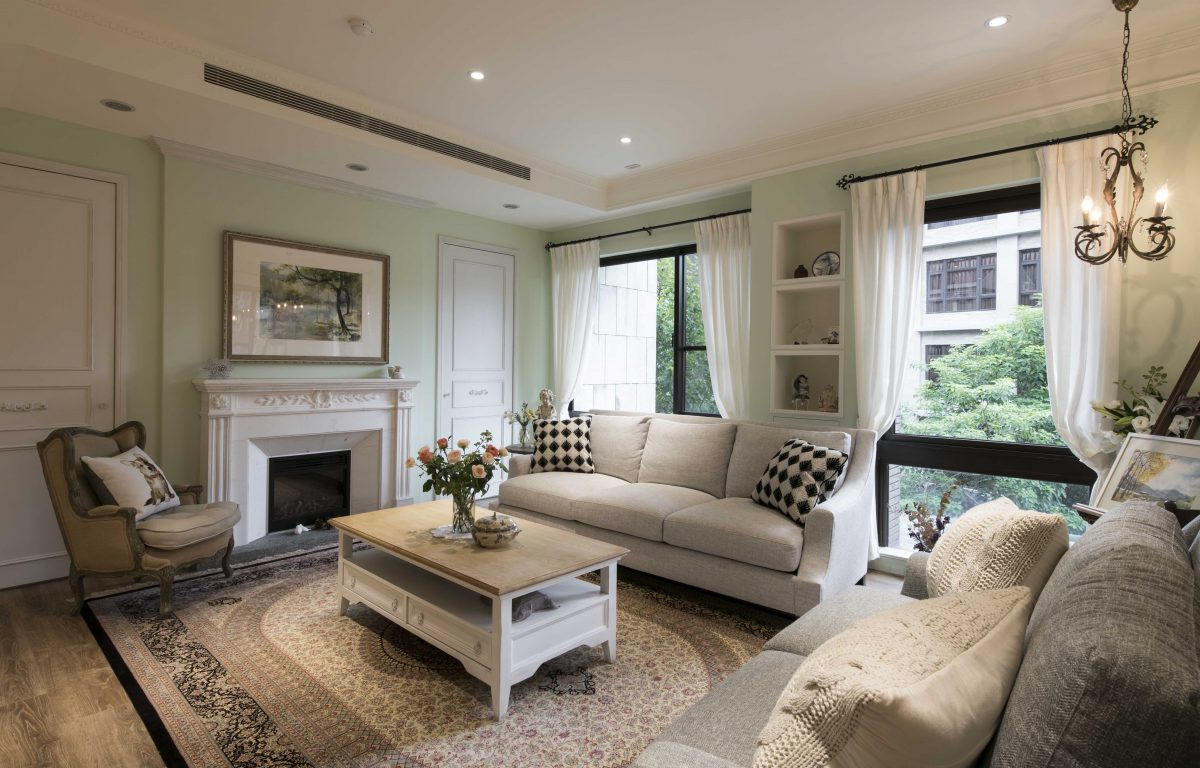
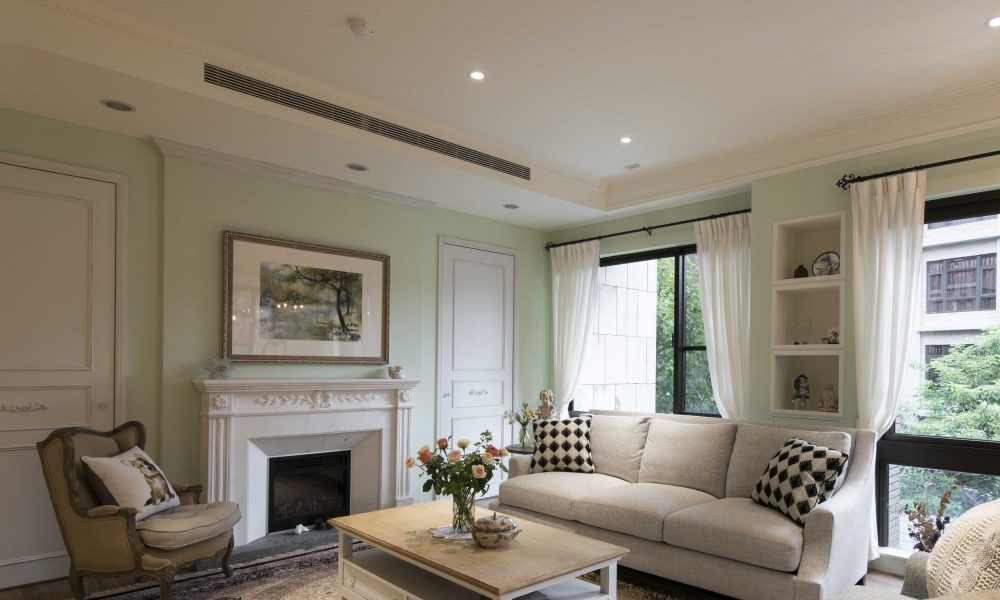
11

diff --git a/landing2.html b/landing2.html
@@ -48,11 +48,14 @@
 								<img src="images/05/07.jpg" alt="" />
 							</span>
 							<header class="major">
-								<h1>Landing</h1>
+								<h1>新古典風緣由</h1>
 							</header>
 							<div class="content">
-								<p>Lorem ipsum dolor sit amet nullam consequat<br />
-								sed veroeros. tempus adipiscing nulla.</p>
+								<p>新古典主義風格是一種建築和藝術的風格，
+									起源於18世紀末至19世紀初的歐洲是特別
+									是在英國和法國。它的出現是作為對巴洛
+									克和洛可可風格的反應，強調理性、秩序
+									和古典的優雅。</p>
 							</div>
 						</div>
 					</section>
@@ -64,9 +67,9 @@
 							<section id="one">
 								<div class="inner">
 									<header class="major">
-										<h2>Sed amet aliquam</h2>
+										<h2>古典建築元素的復興</h2>
 									</header>
-									<p>Nullam et orci eu lorem consequat tincidunt vivamus et sagittis magna sed nunc rhoncus condimentum sem. In efficitur ligula tate urna. Maecenas massa vel lacinia pellentesque lorem ipsum dolor. Nullam et orci eu lorem consequat tincidunt. Vivamus et sagittis libero. Nullam et orci eu lorem consequat tincidunt vivamus et sagittis magna sed nunc rhoncus condimentum sem. In efficitur ligula tate urna.</p>
+									<p>新古典主義尋求復興古希臘和羅馬建築的元素，如柱廊、拱門、穹頂等。這些元素被認為是理性和秩序的象徵，與巴洛克和洛可可風格的多樣化和浮誇形成對比。</p>
 								</div>
 							</section>
 
@@ -79,9 +82,9 @@
 									<div class="content">
 										<div class="inner">
 											<header class="major">
-												<h3>Orci maecenas</h3>
+												<h3>理性和秩序的追求</h3>
 											</header>
-											<p>Nullam et orci eu lorem consequat tincidunt vivamus et sagittis magna sed nunc rhoncus condimentum sem. In efficitur ligula tate urna. Maecenas massa sed magna lacinia magna pellentesque lorem ipsum dolor. Nullam et orci eu lorem consequat tincidunt. Vivamus et sagittis tempus.</p>
+											<p>這一風格反映了啟蒙運動的理念，強調理性思考、科學精神和古典教育的價值。建築和藝術被設計來符合明確的比例和規則，以表現秩序和和諧。</p>
 											<ul class="actions">
 												<li><a href="generic2.html" class="button">Learn more</a></li>
 											</ul>
@@ -95,9 +98,9 @@
 									<div class="content">
 										<div class="inner">
 											<header class="major">
-												<h3>Rhoncus magna</h3>
+												<h3>文藝復興的精神</h3>
 											</header>
-											<p>Nullam et orci eu lorem consequat tincidunt vivamus et sagittis magna sed nunc rhoncus condimentum sem. In efficitur ligula tate urna. Maecenas massa sed magna lacinia magna pellentesque lorem ipsum dolor. Nullam et orci eu lorem consequat tincidunt. Vivamus et sagittis tempus.</p>
+											<p>新古典主義不僅在建築上表現出來，還影響了畫家、雕塑家和設計師的作品。他們尋求通過研究古希臘和羅馬藝術來恢復人類的理想化表現形式，以此來達到文藝復興的精神。</p>
 											<ul class="actions">
 												<li><a href="generic2.html" class="button">Learn more</a></li>
 											</ul>
@@ -115,9 +118,11 @@
 									<div class="content">
 										<div class="inner">
 											<header class="major">
-												<h3>Sed nunc ligula</h3>
+												<h3>追求現代新古典的主張</h3>
 											</header>
-											<p>Nullam et orci eu lorem consequat tincidunt vivamus et sagittis magna sed nunc rhoncus condimentum sem. In efficitur ligula tate urna. Maecenas massa sed magna lacinia magna pellentesque lorem ipsum dolor. Nullam et orci eu lorem consequat tincidunt. Vivamus et sagittis tempus.</p>
+											<p>新古典主義風格是對前幾個世紀的風格和精神的回應，它提倡秩序
+												、理性和古典美學，並在歐洲和美國等地成為了當時主要的建築
+												和藝術風格之一。</p>
 											<ul class="actions">
 												<li><a href="webin/index.html" class="button">Learn more</a></li>
 											</ul>
@@ -130,9 +135,9 @@
 							<section id="three">
 								<div class="inner">
 									<header class="major">
-										<h2>Massa libero</h2>
+										<h2>現代與新古典主義</h2>
 									</header>
-									<p>Nullam et orci eu lorem consequat tincidunt vivamus et sagittis libero. Mauris aliquet magna magna sed nunc rhoncus pharetra. Pellentesque condimentum sem. In efficitur ligula tate urna. Maecenas laoreet massa vel lacinia pellentesque lorem ipsum dolor. Nullam et orci eu lorem consequat tincidunt. Vivamus et sagittis libero. Mauris aliquet magna magna sed nunc rhoncus amet pharetra et feugiat tempus.</p>
+									<p>現代與新古典主義風格的共融是當代建築和設計中的一個有趣趨勢，它結合了傳統古典元素與現代的設計理念和技術。這種融合不僅在建築上有所體現，還延伸到室內設計、家具設計和藝術裝飾等各個方面。</p>
 									<ul class="actions">
 										<li><a href="generic2.html" class="button next">Get Started</a></li>
 									</ul>

diff --git a/landing1.html b/landing1.html
@@ -130,7 +130,7 @@
 									</header>
 									<p>Nullam et orci eu lorem consequat tincidunt vivamus et sagittis libero. Mauris aliquet magna magna sed nunc rhoncus pharetra. Pellentesque condimentum sem. In efficitur ligula tate urna. Maecenas laoreet massa vel lacinia pellentesque lorem ipsum dolor. Nullam et orci eu lorem consequat tincidunt. Vivamus et sagittis libero. Mauris aliquet magna magna sed nunc rhoncus amet pharetra et feugiat tempus.</p>
 									<ul class="actions">
-										<li><a href="generic.html" class="button next">Get Started</a></li>
+										<li><a href="webin/index.html" class="button next">Get Started</a></li>
 									</ul>
 								</div>
 							</section>

diff --git a/assets/css/main.css b/assets/css/main.css
@@ -2205,8 +2205,8 @@ input, select, textarea {
 
 		.image.main {
 			display: block;
-			margin: 2.5em 0;
-			width: 100%;
+			margin: 0.5em 0;
+			width: 50%;
 		}
 
 			.image.main img {
